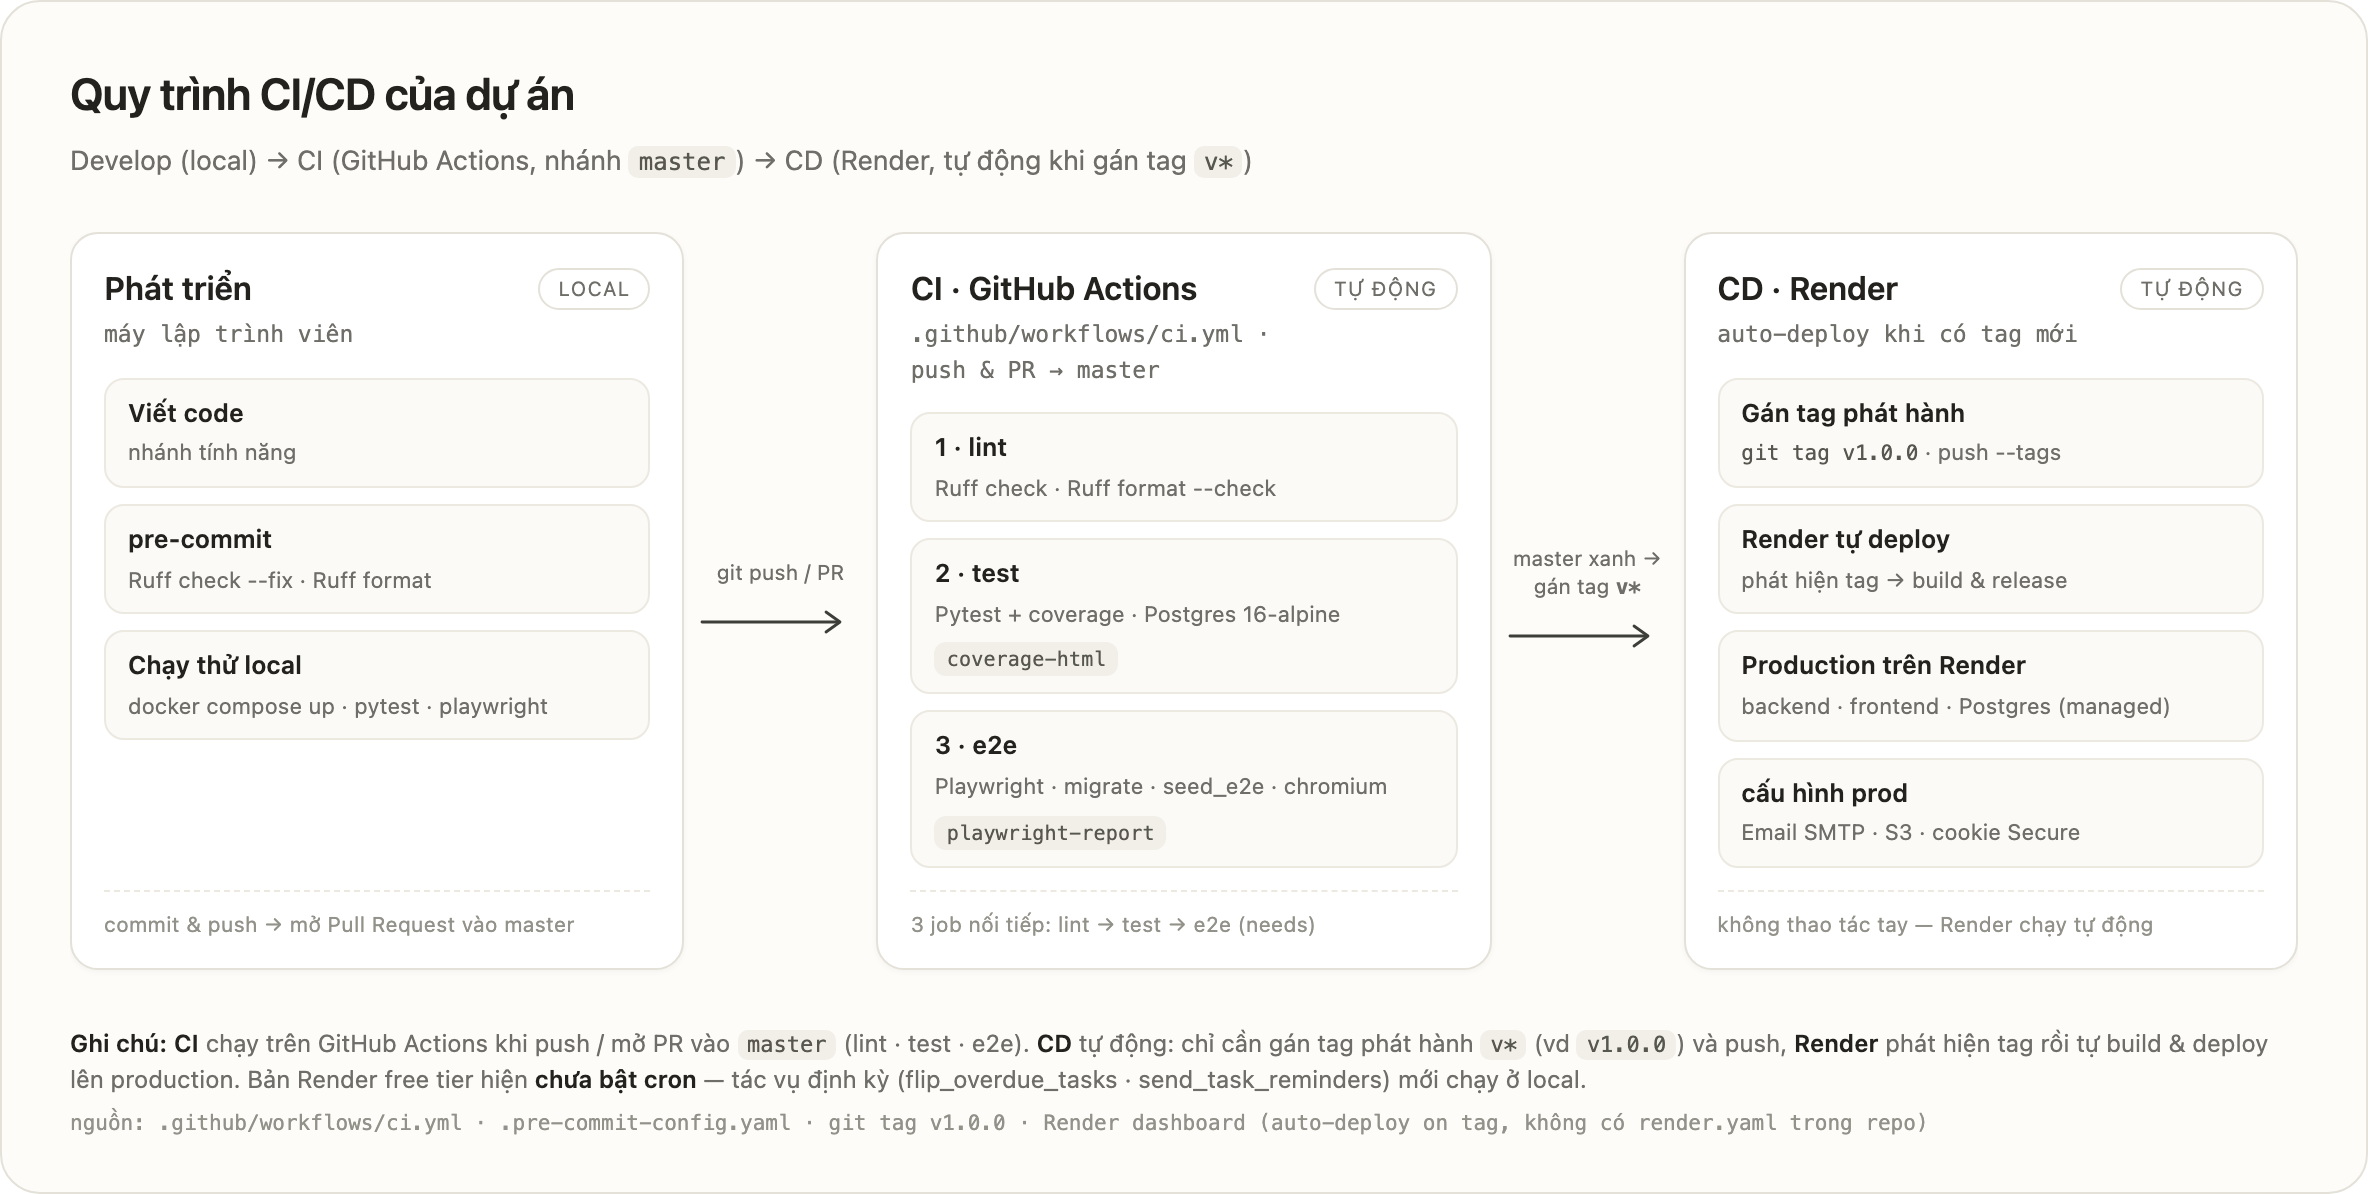
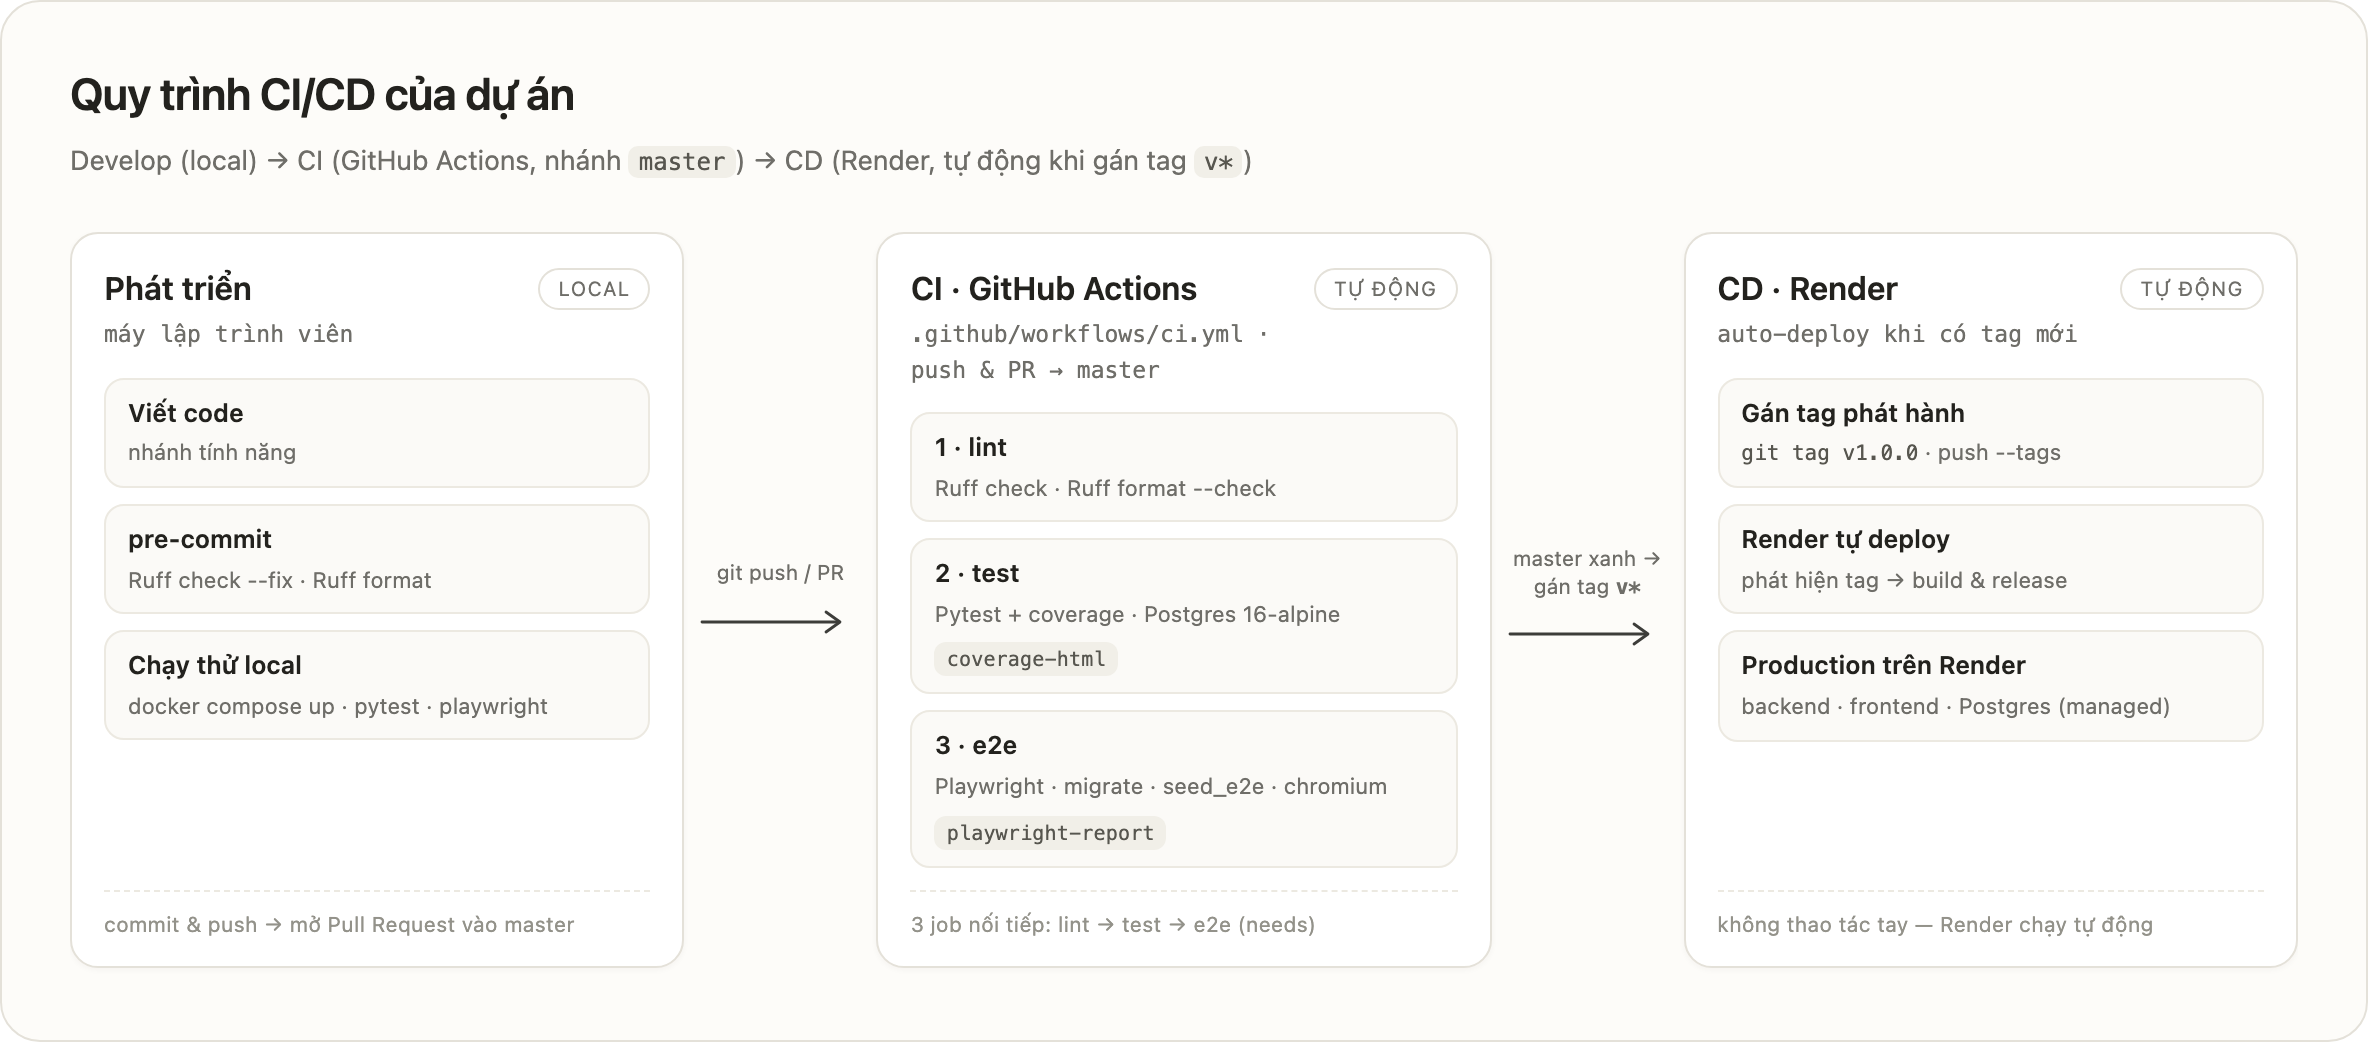
docs: trim CI/CD diagram — drop footer note and prod-config pill

diff --git a/docs/cicd-flow.html b/docs/cicd-flow.html
@@ -107,16 +107,10 @@
           <li class="pill"><span class="p-t">Gán tag phát hành</span><span class="p-s"><code>git tag v1.0.0</code> · push --tags</span></li>
           <li class="pill"><span class="p-t">Render tự deploy</span><span class="p-s">phát hiện tag → build &amp; release</span></li>
           <li class="pill"><span class="p-t">Production trên Render</span><span class="p-s">backend · frontend · Postgres (managed)</span></li>
-          <li class="pill"><span class="p-t">cấu hình prod</span><span class="p-s">Email SMTP · S3 · cookie Secure</span></li>
         </ul>
         <div class="card-foot">không thao tác tay — Render chạy tự động</div>
       </section>
 
     </div>
   </div>
-
-  <footer class="note">
-    <p><b>Ghi chú:</b> <b>CI</b> chạy trên GitHub Actions khi push / mở PR vào <code>master</code> (lint · test · e2e). <b>CD</b> tự động: chỉ cần gán tag phát hành <code>v*</code> (vd <code>v1.0.0</code>) và push, <b>Render</b> phát hiện tag rồi tự build &amp; deploy lên production. Bản Render free tier hiện <b>chưa bật cron</b> — tác vụ định kỳ (flip_overdue_tasks · send_task_reminders) mới chạy ở local.</p>
-    <p class="src">nguồn: .github/workflows/ci.yml · .pre-commit-config.yaml · git tag v1.0.0 · Render dashboard (auto-deploy on tag, không có render.yaml trong repo)</p>
-  </footer>
 </div>
